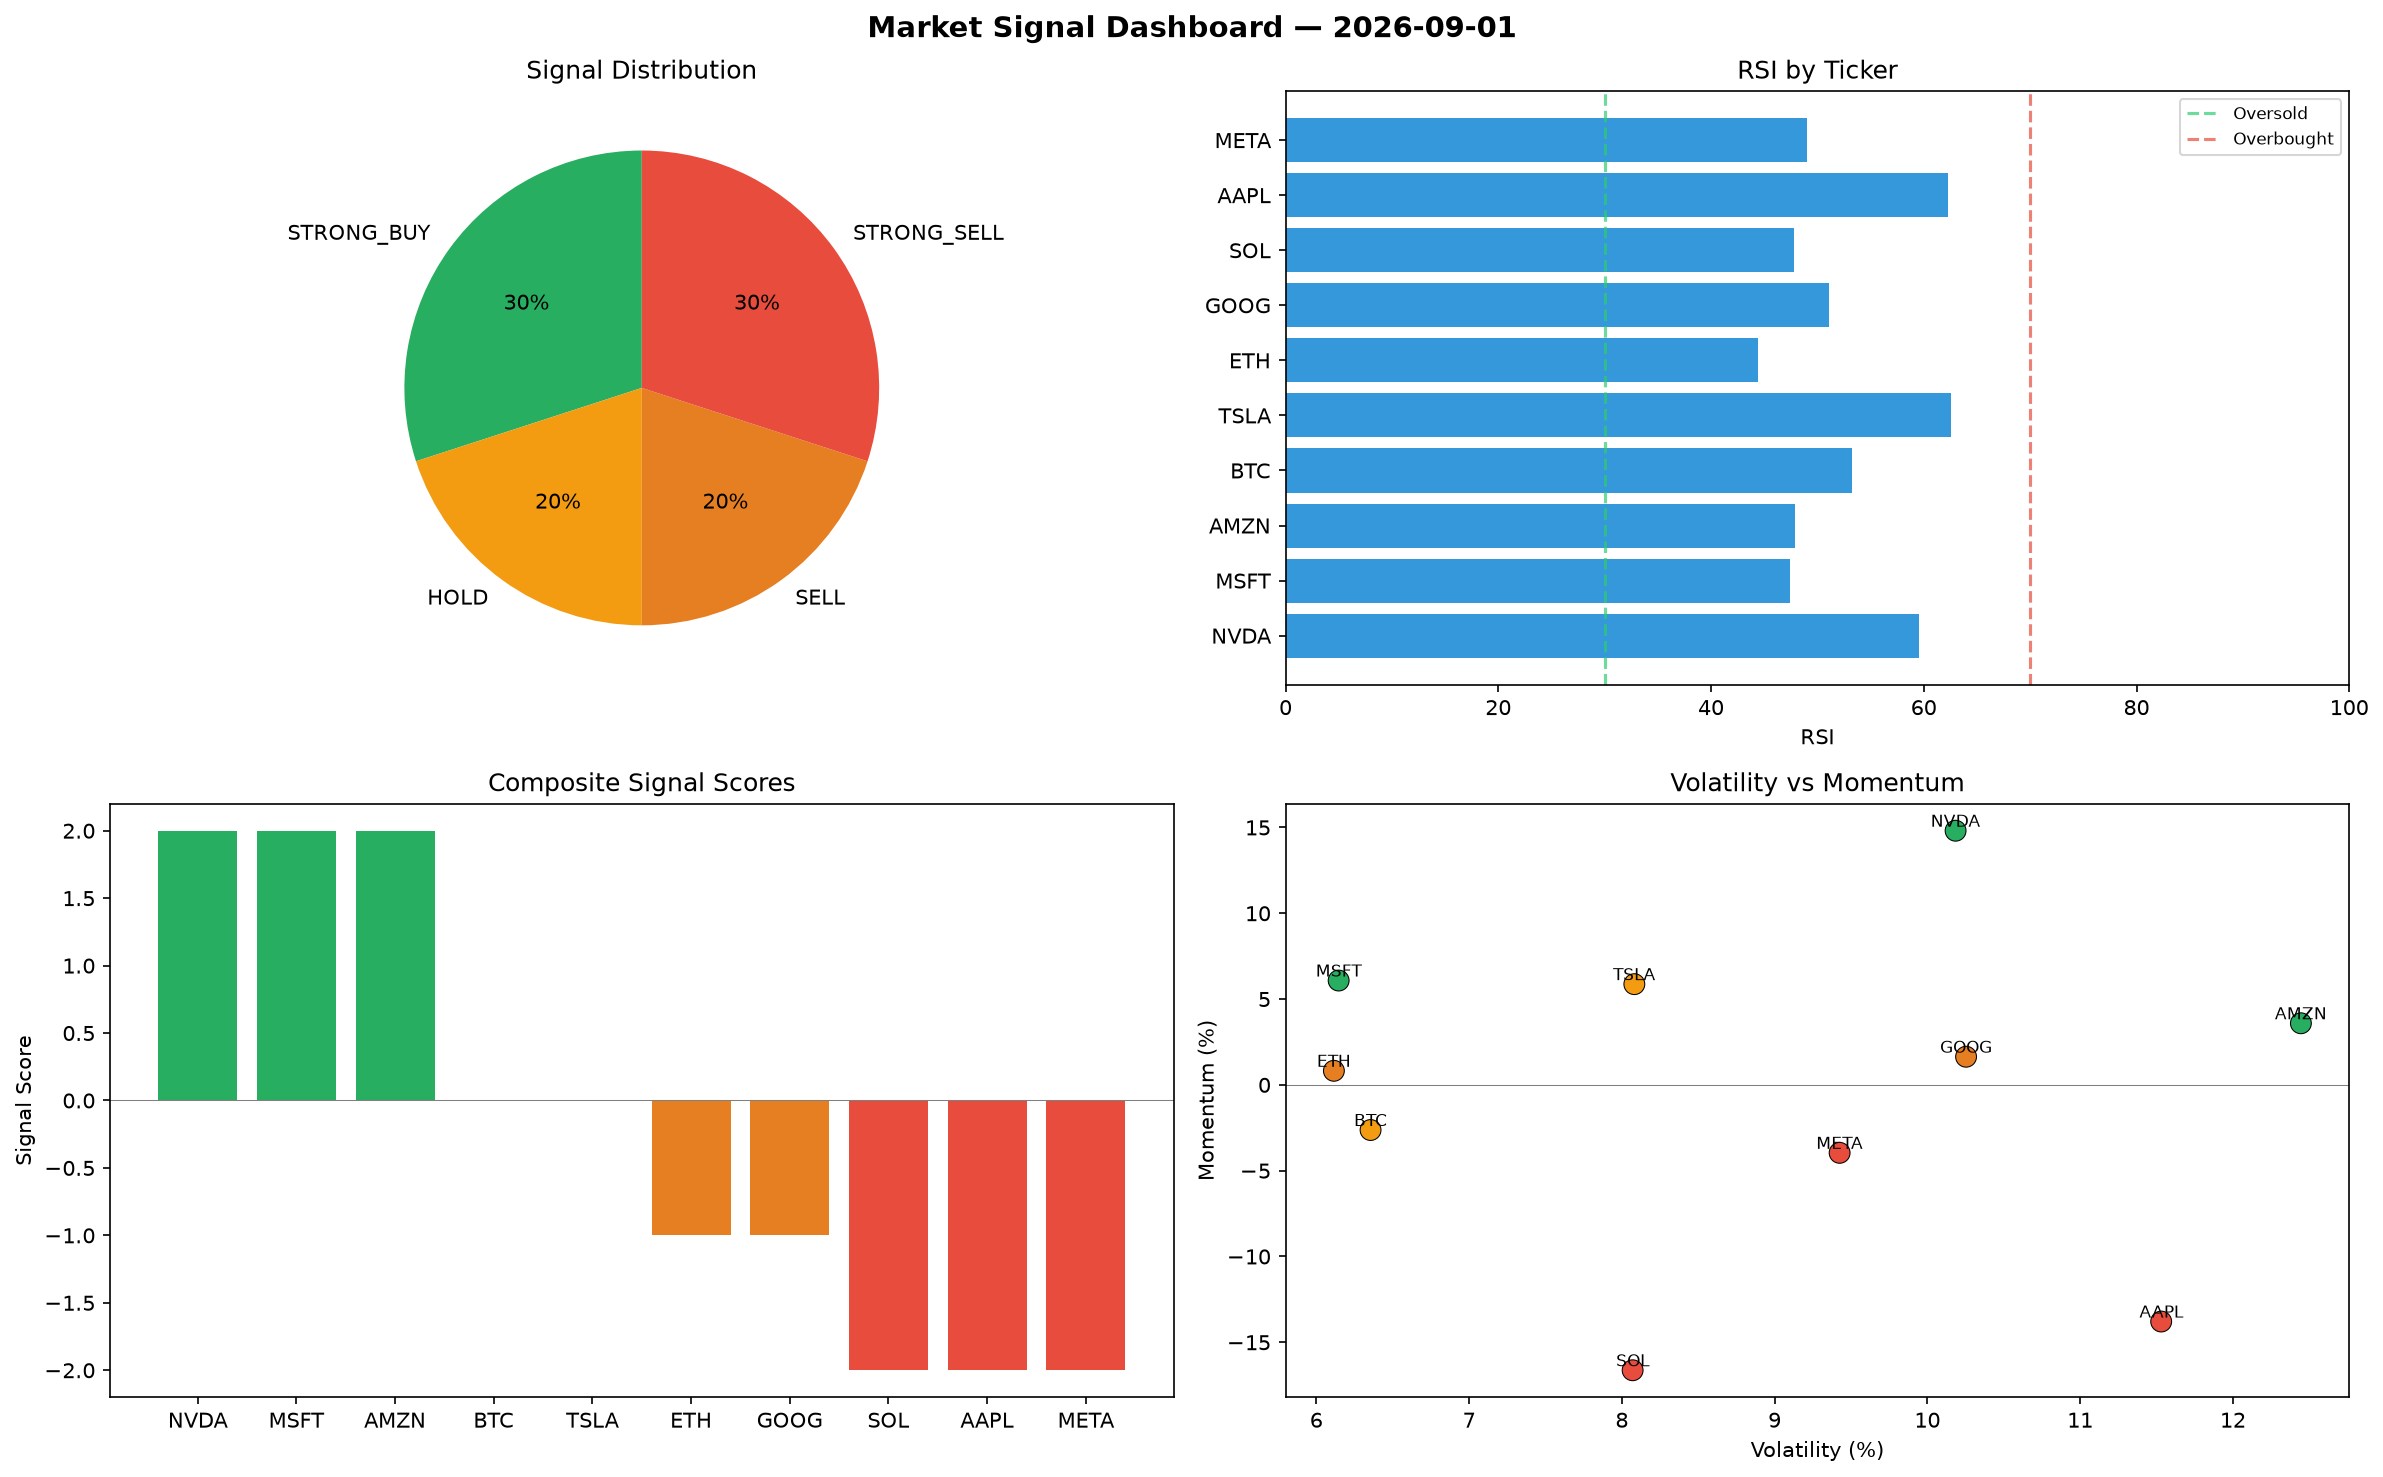
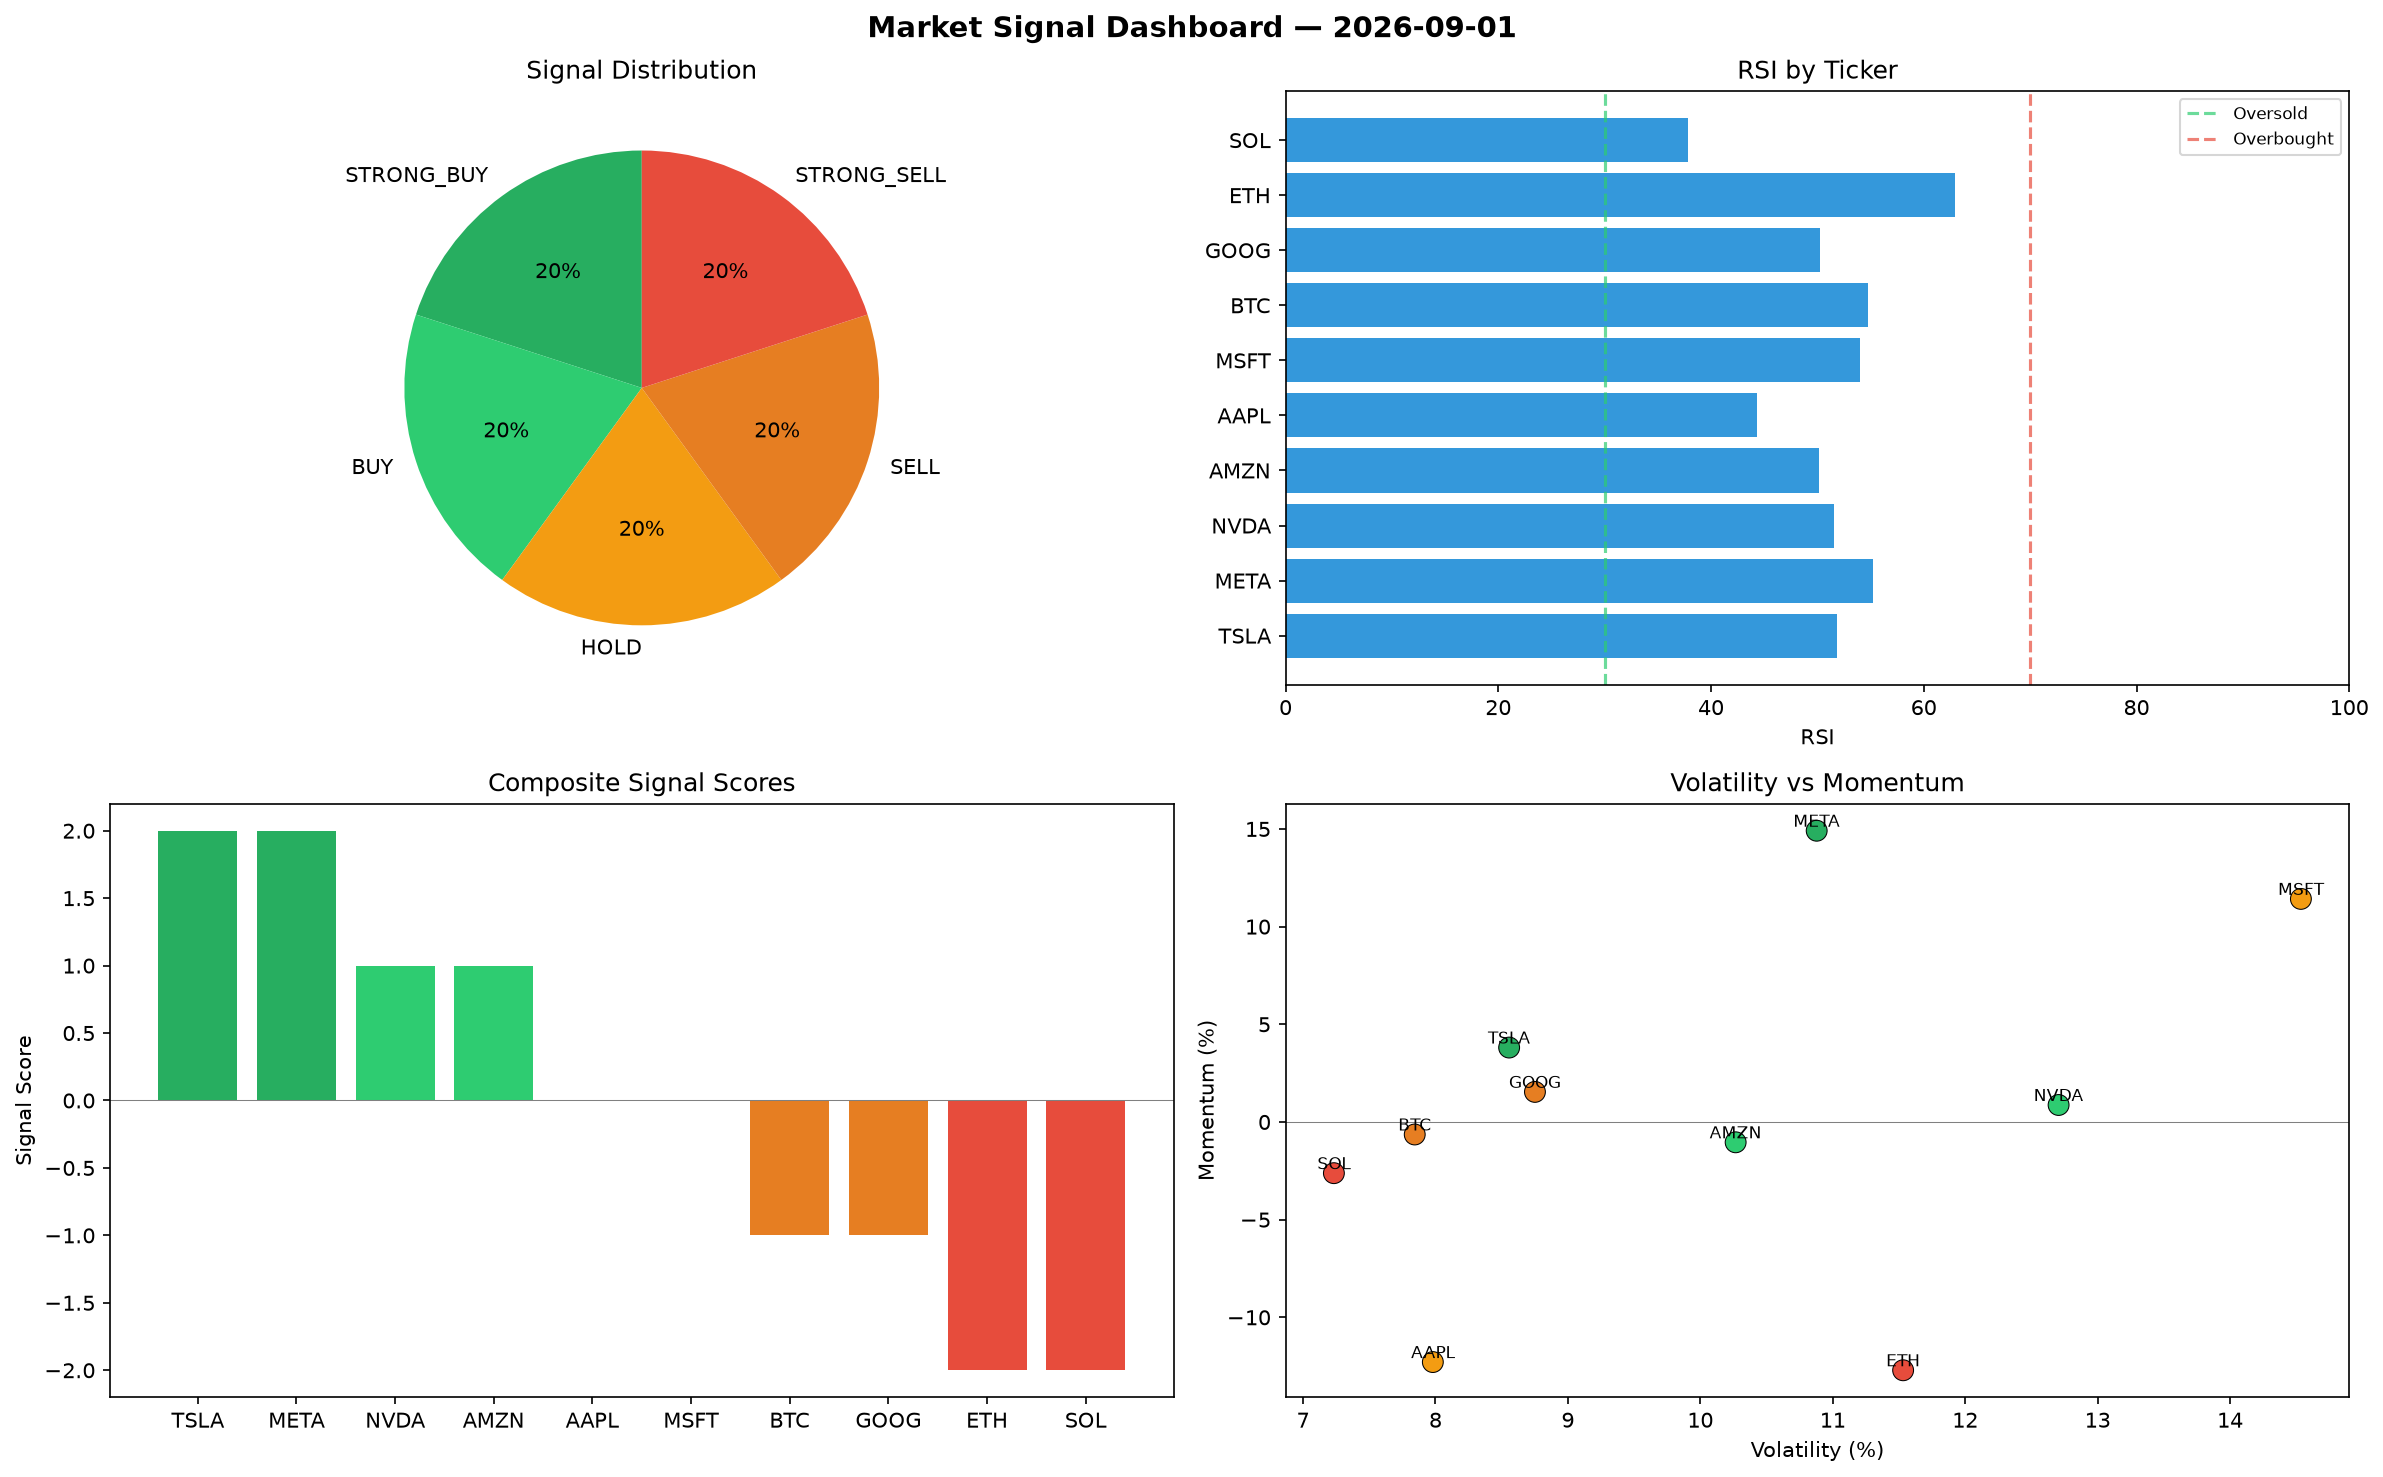
automated-bots: market signals 2026-09-01T22:40

diff --git a/logs/2026-09-01.md b/logs/2026-09-01.md
@@ -1,6 +1,6 @@
 # Market Signal Report — 2026-09-01
 
-**Run ID:** `afe63670fa` | **Buy:** 3 | **Sell:** 5 | **Hold:** 2
+**Run ID:** `d5b38a1289` | **Buy:** 4 | **Sell:** 4 | **Hold:** 2
 
 ![Dashboard](2026-09-01_dashboard.png)
 
@@ -8,28 +8,28 @@
 
 | Ticker | Price | Signal | Score | RSI | Momentum | Confidence |
 |--------|-------|--------|-------|-----|----------|------------|
-| NVDA | $4363.93 | **STRONG_BUY** | 2 | 59.51 | 0.1481 | 0.5 |
-| MSFT | $3957.05 | **STRONG_BUY** | 2 | 47.41 | 0.0608 | 0.5 |
-| AMZN | $4558.28 | **STRONG_BUY** | 2 | 47.89 | 0.0359 | 0.5 |
-| BTC | $2553.55 | **HOLD** | 0 | 53.25 | -0.0263 | 0.0 |
-| TSLA | $750.85 | **HOLD** | 0 | 62.52 | 0.0587 | 0.0 |
-| ETH | $4937.45 | **SELL** | -1 | 44.41 | 0.0082 | 0.25 |
-| GOOG | $2502.53 | **SELL** | -1 | 51.07 | 0.0164 | 0.25 |
-| SOL | $3669.28 | **STRONG_SELL** | -2 | 47.79 | -0.1663 | 0.5 |
-| AAPL | $4348.45 | **STRONG_SELL** | -2 | 62.26 | -0.1379 | 0.5 |
-| META | $858.3 | **STRONG_SELL** | -2 | 48.98 | -0.0396 | 0.5 |
+| TSLA | $717.0 | **STRONG_BUY** | 2 | 51.83 | 0.0381 | 0.5 |
+| META | $1293.37 | **STRONG_BUY** | 2 | 55.22 | 0.1491 | 0.5 |
+| NVDA | $2183.99 | **BUY** | 1 | 51.54 | 0.0087 | 0.25 |
+| AMZN | $3666.47 | **BUY** | 1 | 50.17 | -0.0104 | 0.25 |
+| AAPL | $3118.71 | **HOLD** | 0 | 44.33 | -0.1229 | 0.0 |
+| MSFT | $3893.62 | **HOLD** | 0 | 54.0 | 0.1142 | 0.0 |
+| BTC | $3828.43 | **SELL** | -1 | 54.74 | -0.0064 | 0.25 |
+| GOOG | $223.0 | **SELL** | -1 | 50.2 | 0.0154 | 0.25 |
+| ETH | $1506.75 | **STRONG_SELL** | -2 | 62.96 | -0.1271 | 0.5 |
+| SOL | $2914.87 | **STRONG_SELL** | -2 | 37.79 | -0.0262 | 0.5 |
 
 ## Delta vs Yesterday
 
 | Ticker | Today | Yesterday | Price Change | Signal Changed |
 |--------|-------|-----------|-------------|----------------|
-| NVDA | STRONG_BUY | HOLD | 📉 -4.21% | ⚠ YES |
-| MSFT | STRONG_BUY | SELL | 📈 22.75% | ⚠ YES |
-| AMZN | STRONG_BUY | BUY | 📉 -7.7% | ⚠ YES |
-| BTC | HOLD | HOLD | 📉 -19.19% | — |
-| TSLA | HOLD | STRONG_SELL | 📉 -65.08% | ⚠ YES |
-| ETH | SELL | STRONG_BUY | 📈 11.72% | ⚠ YES |
-| GOOG | SELL | STRONG_SELL | 📉 -12.16% | ⚠ YES |
-| SOL | STRONG_SELL | STRONG_BUY | 📈 214.56% | ⚠ YES |
-| AAPL | STRONG_SELL | STRONG_SELL | 📈 46.81% | — |
-| META | STRONG_SELL | STRONG_BUY | 📈 615.07% | ⚠ YES |
+| TSLA | STRONG_BUY | STRONG_SELL | 📉 -66.65% | ⚠ YES |
+| META | STRONG_BUY | STRONG_BUY | 📈 977.54% | — |
+| NVDA | BUY | HOLD | 📉 -52.06% | ⚠ YES |
+| AMZN | BUY | BUY | 📉 -25.76% | — |
+| AAPL | HOLD | STRONG_SELL | 📈 5.29% | ⚠ YES |
+| MSFT | HOLD | SELL | 📈 20.78% | ⚠ YES |
+| BTC | SELL | HOLD | 📈 21.16% | ⚠ YES |
+| GOOG | SELL | STRONG_SELL | 📉 -92.17% | ⚠ YES |
+| ETH | STRONG_SELL | STRONG_BUY | 📉 -65.91% | ⚠ YES |
+| SOL | STRONG_SELL | STRONG_BUY | 📈 149.88% | ⚠ YES |
